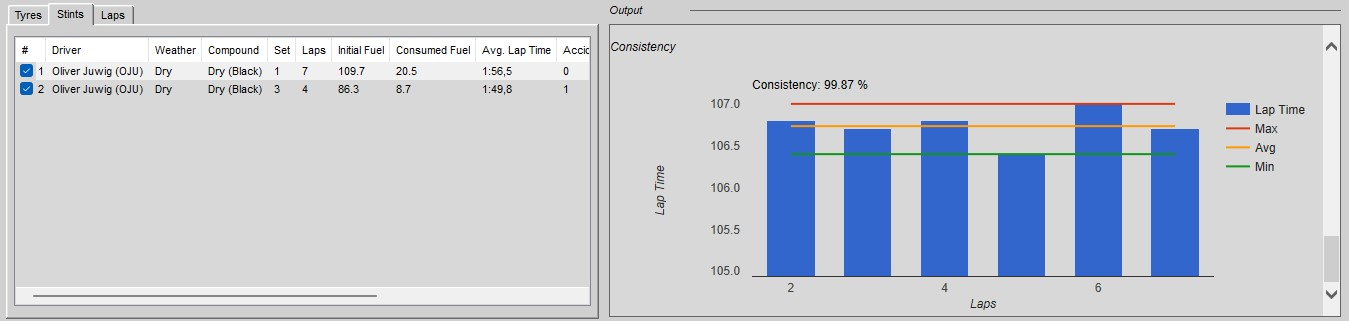
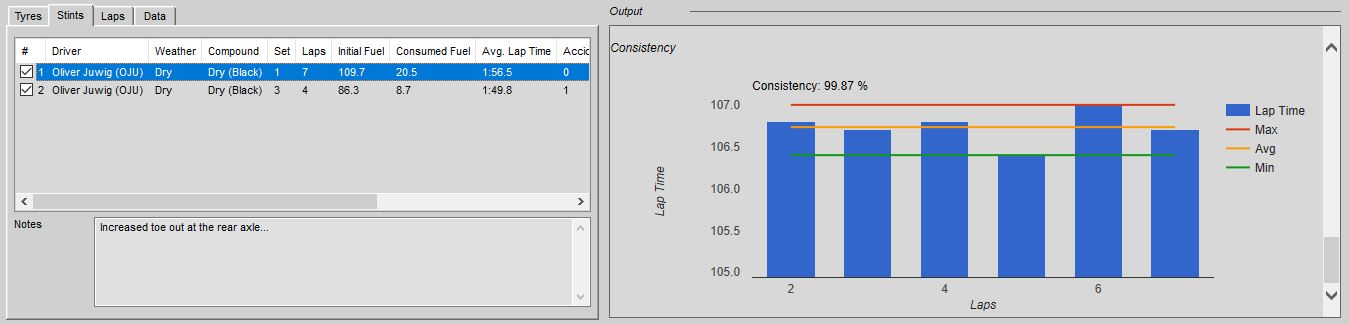
Notes field in "Practice Center"

diff --git a/Docs/Virtual Race Strategist.md b/Docs/Virtual Race Strategist.md
@@ -300,6 +300,8 @@ Last but not least, using the small button with the cog wheel icon, you can choo
      This will give you an overview for the stint, the driven laps, as well as some performance figures for the driver. Please select a stint in the list of stints to generate this report.
 	 
 	 ![](https://github.com/SeriousOldMan/Simulator-Controller/blob/main/Docs/Images/Practice%20Center%203.JPG)
+	 
+	 While you are in an active session, you can also take notes for a selected stint, for example to remember setup changes, special weather conditions or other stuff worth to mention.
 
   2. Details for a given lap
   
